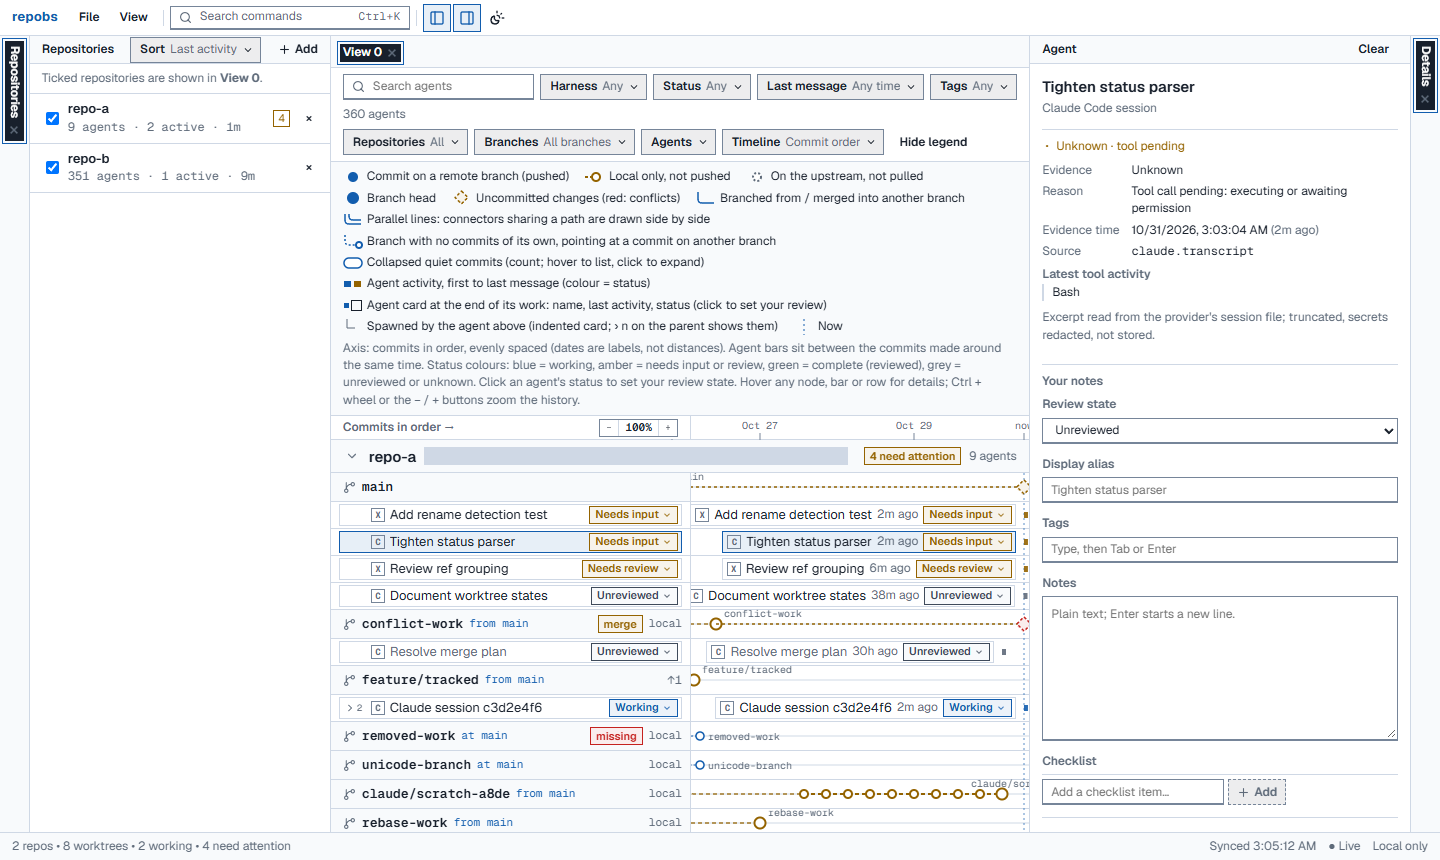
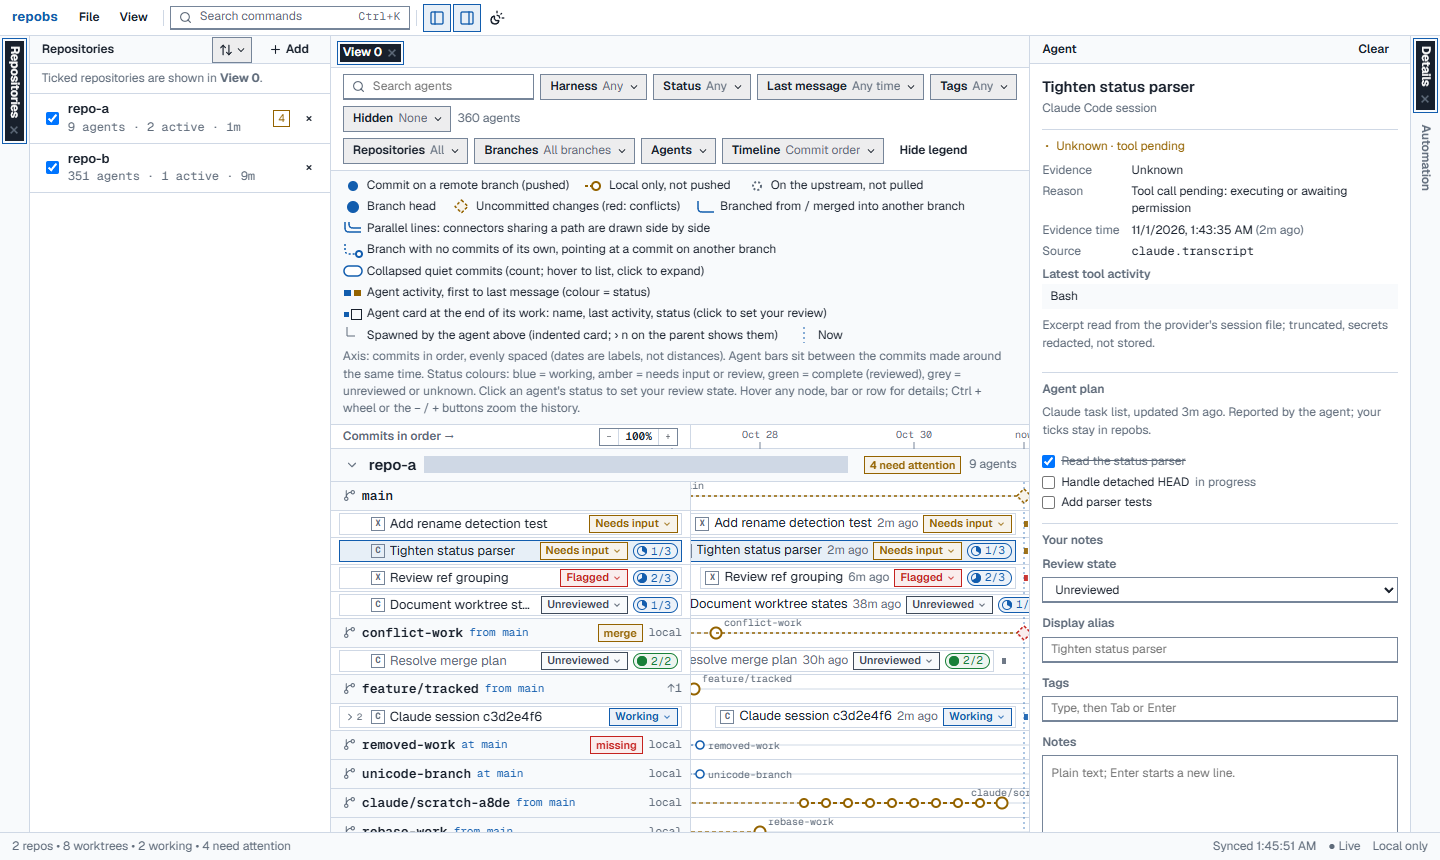
docs: rewrite the README for readers; new demo screenshot
Shorter introduction; quick start from the latest release with an
upgrade note; features grouped as see, follow, review and organise;
privacy as plain promises first, mechanisms after; a Supported
section; links to the documentation site; a development section.
The overview screenshot is regenerated from the synthetic demo and
shows checklist pills and an agent plan. Handoff checkpoint 21
records the published 0.3.0 release.

diff --git a/README.md b/README.md
@@ -1,18 +1,24 @@
 # repobs — observe your Git worktrees and coding agents, locally.
 
-repobs is a local, read-only dashboard for developers with many Git worktrees, temporary agent branches and Claude Code / Codex sessions. A dashboard shows each repository's **branches as a commit graph on a timeline** — forks, merges, unpushed commits, uncommitted work — with the **agents that worked on each branch as cards** (status with its evidence, latest message excerpt, spawned sub-agents) and your own review notes, tags and checklists. It updates by itself when Git or agent files change.
+repobs is a local dashboard for developers who run many coding agents across Git worktrees and branches. It shows each repository's branches on one timeline with the Claude Code and Codex agents that worked on them, so you can see what each agent did, which ones are waiting for you, and what you still need to review.
+
+It only reads. It never changes your repositories or agent files, needs no API keys, and sends nothing off your machine.
 
 ![repobs dashboard with synthetic demo data](docs/assets/repobs-overview.png)
 
-*The real application running on synthetic demo data (`npm run demo`).*
-
-**repobs is not** an agent launcher, an IDE, a terminal or a Git client. It never fetches, checks out, commits or otherwise changes your repositories, never edits agent histories or configuration, never installs hooks, and needs no API keys and no VS Code.
+*Synthetic demo data: agents on their branches with their review states and checklist pills; the details panel shows an agent's own plan.*
 
 ## Quick start (Windows)
 
-Requires Node.js 24 LTS (24.11+) and Git for Windows.
+You need Node.js 24 LTS (24.11+) and Git for Windows.
 
-**From a release (no build):** download `repobs-<version>.zip` from [Releases](https://github.com/Chengxuan-Li/repobs/releases), unzip it, and run `npm start` in the unzipped folder.
+1. Download `repobs-<version>.zip` from the [latest release](https://github.com/Chengxuan-Li/repobs/releases/latest) and unzip it anywhere.
+2. In the unzipped folder, run `npm start`. repobs starts on `127.0.0.1` and opens your browser.
+3. Click **Add repositories** and tick the repositories repobs found in your agent sessions, or add a path such as `C:\src\my-project`.
+
+Stop it with **Ctrl+C**. `npm run open` opens a new browser link to a running repobs.
+
+**Upgrading:** unzip the new release and start it; your data stays in `%LOCALAPPDATA%\repobs`. When a version changes the database (0.3.0 does), it first saves a backup next to it, and older versions cannot open the updated database. See the [changelog](CHANGELOG.md).
 
 **From source:**
 
@@ -21,32 +27,62 @@ git clone https://github.com/Chengxuan-Li/repobs.git
 cd repobs
 npm ci
 npm run build
-npm start                       # starts the loopback service, then opens your browser
+npm start
 ```
-
-Or: `powershell -ExecutionPolicy Bypass -File scripts\start.ps1` (installs and builds on first run). Click **Add repositories** and tick the repositories repobs found in your agent sessions, or add a path such as `C:\src\my-project` (or **Browse…**); several can be added at once. Stop with **Ctrl+C**. `npm run open` opens a fresh pairing link for a running instance.
-
-Development: `npm run dev` (backend from sources with watch + Vite dev UI on `http://127.0.0.1:5173`). Documentation: `python -m pip install -r requirements-docs.txt` then `python -m mkdocs serve`.
 
 ## What you get
 
-- Registered repositories (identified by their common Git directory), local branches with configured upstreams and ahead/behind, remote-only refs, detached HEADs, all worktrees with staged/unstaged/untracked/conflicted counts, merge/rebase/cherry-pick/revert/bisect markers, locked/prunable/missing states.
-- A commit graph per repository: one row per branch on an axis shared by all repositories (commit order, calendar time or compressed calendar; zoom, and drag to pan), fork/merge edges on parallel tracks, pushed vs local-only commits, uncommitted-change markers, and quiet commits folded into counted groups on request.
-- Claude Code and Codex sessions discovered from their local files — including sessions started outside repobs, many per worktree, and the sub-agents they spawned (collapsible under their parent) — as cards with observed state, confidence (direct / inferred / unknown), source and evidence time, and an optional redacted excerpt of the latest message. Missing data is shown as unknown, never idle.
-- Several named views, each with its own filters (harness, status, last-message time, tags, text), display options and repositories; a dockable layout with repositories and details panels; File → Export / Open for your annotations and views.
-- Your own review layer: review-state dropdown (including *Outdated*), autocompleting tags, alias, multi-line autosaved notes and checklists, export/import as JSON. Stored only in `%LOCALAPPDATA%\repobs`.
-- Checklists in two parts: first the agent's own plan, replayed from its planning tool calls (Claude desktop task list, Claude Code `TodoWrite`, Codex `update_plan`) and synced as it works, then your items. You can tick or untick the agent's steps in repobs; nothing goes back to the agent. A pill on each card shows done/total.
-- Automation rules that set review state, tags, alias, note or checklist items on agents matching conditions (last activity, keywords, review state, tags and more), and a per-view *Hidden* filter.
-- Live updates over server-sent events, from file watchers plus self-healing polling.
-- Optional, off-by-default, read-only GitHub pull request overlay via the GitHub CLI.
+**See your repositories**
 
-## Privacy and security
+- Branches, worktrees and commits of every registered repository on one shared timeline: forks and merges, unpushed commits, uncommitted changes, detached HEADs, missing worktrees, and merges or rebases in progress.
+- Commit order or calendar time, zoom and drag to pan; runs of quiet commits fold into groups.
 
-Loopback only (`127.0.0.1`), launcher pairing with an HttpOnly SameSite=Strict session, Host/Origin/CSRF checks on every route, strict CSP, read-only allowlisted Git commands without a shell, no telemetry and no network use unless you enable the PR lookup. Only structural metadata is read from session files, plus an optional, truncated, redacted excerpt of each agent's latest message and, also optional, the agents' plan steps; neither is ever stored. Details: [docs/privacy-security.md](docs/privacy-security.md) and [SECURITY.md](SECURITY.md).
+**Follow your agents**
+
+- Claude Code sessions (terminal or Claude desktop app) and Codex sessions, found in their local files: including sessions started outside repobs, several per worktree, and the sub-agents they spawned.
+- Each agent's status with its evidence and confidence. Missing data shows as *Unknown*, never as idle.
+- Optionally, a short redacted excerpt of the agent's latest message and the plan it keeps with its planning tool.
+
+**Review them**
+
+- Review states (including *Flagged* and *Outdated*), tags, alias and notes.
+- Checklists in two parts: first the agent's own plan, synced as it works, then your items. You can tick or untick the agent's steps by your own judgement; nothing goes back to the agent.
+- Automation rules, for example *idle for 7 days → Outdated*. Rules can set the review state, tags, alias, note and checklist items.
+
+**Organise the view**
+
+- Several named views, each with its own filters, hidden agents and repositories; dockable panels and a command palette.
+- Export and import your annotations and views as JSON.
+- Live updates as Git or agent files change.
+- Optional, off by default: a read-only GitHub pull request overlay through the GitHub CLI.
+
+## Privacy
+
+- **Nothing leaves your machine.** repobs listens on `127.0.0.1` only, has no telemetry, and makes no network requests unless you turn on the pull request overlay.
+- **Nothing is written to your repositories or agent files.** Git is used only through an allowlist of read-only commands, never through a shell.
+- **Agent content stays in memory.** From session files repobs reads structural metadata. Message excerpts and plan steps are optional, held in memory only and never saved. Your own notes, tags, checklists and rules are stored in `%LOCALAPPDATA%\repobs`.
+- **Only your browser gets in.** It pairs with the local service through a one-time link; every request is checked (session cookie, Host and Origin, CSRF token) under a strict content security policy.
+
+Details: [privacy and security](docs/privacy-security.md) and [SECURITY.md](SECURITY.md).
+
+## Supported
+
+- **Windows 11 first.** macOS and Linux are expected to work, and the tests also run on Ubuntu, but they are not the main target.
+- **Claude Code 2.1.x and Codex 0.165** session files were checked in October 2026. Agent plans were observed with the Claude desktop app's task list in November 2026; Claude Code `TodoWrite` and Codex plans follow their published formats. A format repobs does not recognise shows as *Unknown* instead of failing.
+- **Version 0.x.** Features and storage can still change between versions; the changelog says how.
 
 ## Documentation
 
-[Getting started](docs/getting-started.md) · [User guide](docs/user-guide.md) · [Status semantics](docs/status-semantics.md) · [Integrations](docs/integrations.md) · [Limitations](docs/limitations.md) · [Architecture](docs/architecture.md) · [HTTP API](docs/api.md) · [Testing](docs/development/testing.md) · [Progress](docs/development/handoff-status.md)
+The documentation site is at **[chengxuan-li.github.io/repobs](https://chengxuan-li.github.io/repobs/)**: [getting started](https://chengxuan-li.github.io/repobs/getting-started/), [user guide](https://chengxuan-li.github.io/repobs/user-guide/), [status semantics](https://chengxuan-li.github.io/repobs/status-semantics/), [integrations](https://chengxuan-li.github.io/repobs/integrations/) and [limitations](https://chengxuan-li.github.io/repobs/limitations/).
+
+## Development
+
+- `npm run dev`: the server from sources with watch, and the Vite dev UI on `http://127.0.0.1:5173`.
+- `node scripts/demo.ts <empty folder>`: builds synthetic repositories and agent sessions, and prints the environment to start repobs on them.
+- `npm run typecheck`, `npm run lint`, `npm test`, `npm run test:integration`, `npm run test:e2e` (after `npm run build`).
+- Documentation: `python -m pip install -r requirements-docs.txt`, then `python -m mkdocs serve`.
+
+See [architecture](docs/architecture.md), the [HTTP API](docs/api.md), [testing](docs/development/testing.md) and the [progress log](docs/development/handoff-status.md).
 
 ## License
 

diff --git a/docs/development/handoff-status.md b/docs/development/handoff-status.md
@@ -9,7 +9,9 @@ Dated implementation checkpoints against the [product handoff](product-handoff.m
 
 Verification (2026-11-01, this machine): `npm run typecheck`, `npm run lint`, `npm test` (167 tests), `npm run test:integration` (86), `npm run build`, `npx playwright test` (34 passed, 1 skipped), `npm run docs:build` and `npm run package` (`release\repobs-0.3.0.zip`, 817 files) all succeeded. The zip unpacked with `Expand-Archive`; its server started on an empty data folder reported version 0.3.0 at `/api/v1/health`, served `/`, and returned 401 for an unpaired `/api/v1/snapshot`.
 
-Next action: with the owner's approval, push `main` and the `v0.3.0` tag; the release workflow then publishes the zip, its checksum and these notes.
+Published (owner approval): `main` and the annotated tag `v0.3.0` pushed; the release workflow succeeded and published *repobs 0.3.0* with `repobs-0.3.0.zip` and `SHA256SUMS.txt`. The published checksum differs from the local test package, which was built before the release commit.
+
+Afterwards, on `main`: the README rewritten for readers (shorter introduction; quick start from the latest release with an upgrade note; features grouped as see, follow, review and organise; privacy in plain promises first; a *Supported* section; links to the documentation site; a development section), and `docs/assets/repobs-overview.png` regenerated from the demo (`REPOBS_DOCS_SCREENSHOT=1 npx playwright test docs-screenshot`) to show checklist pills and an agent plan. The 0.3.0 zip keeps the earlier README.
 
 ## Checkpoint 20 — 2026-11-01: agent plans in checklists (ADR 0009, merged into `main`)
 
